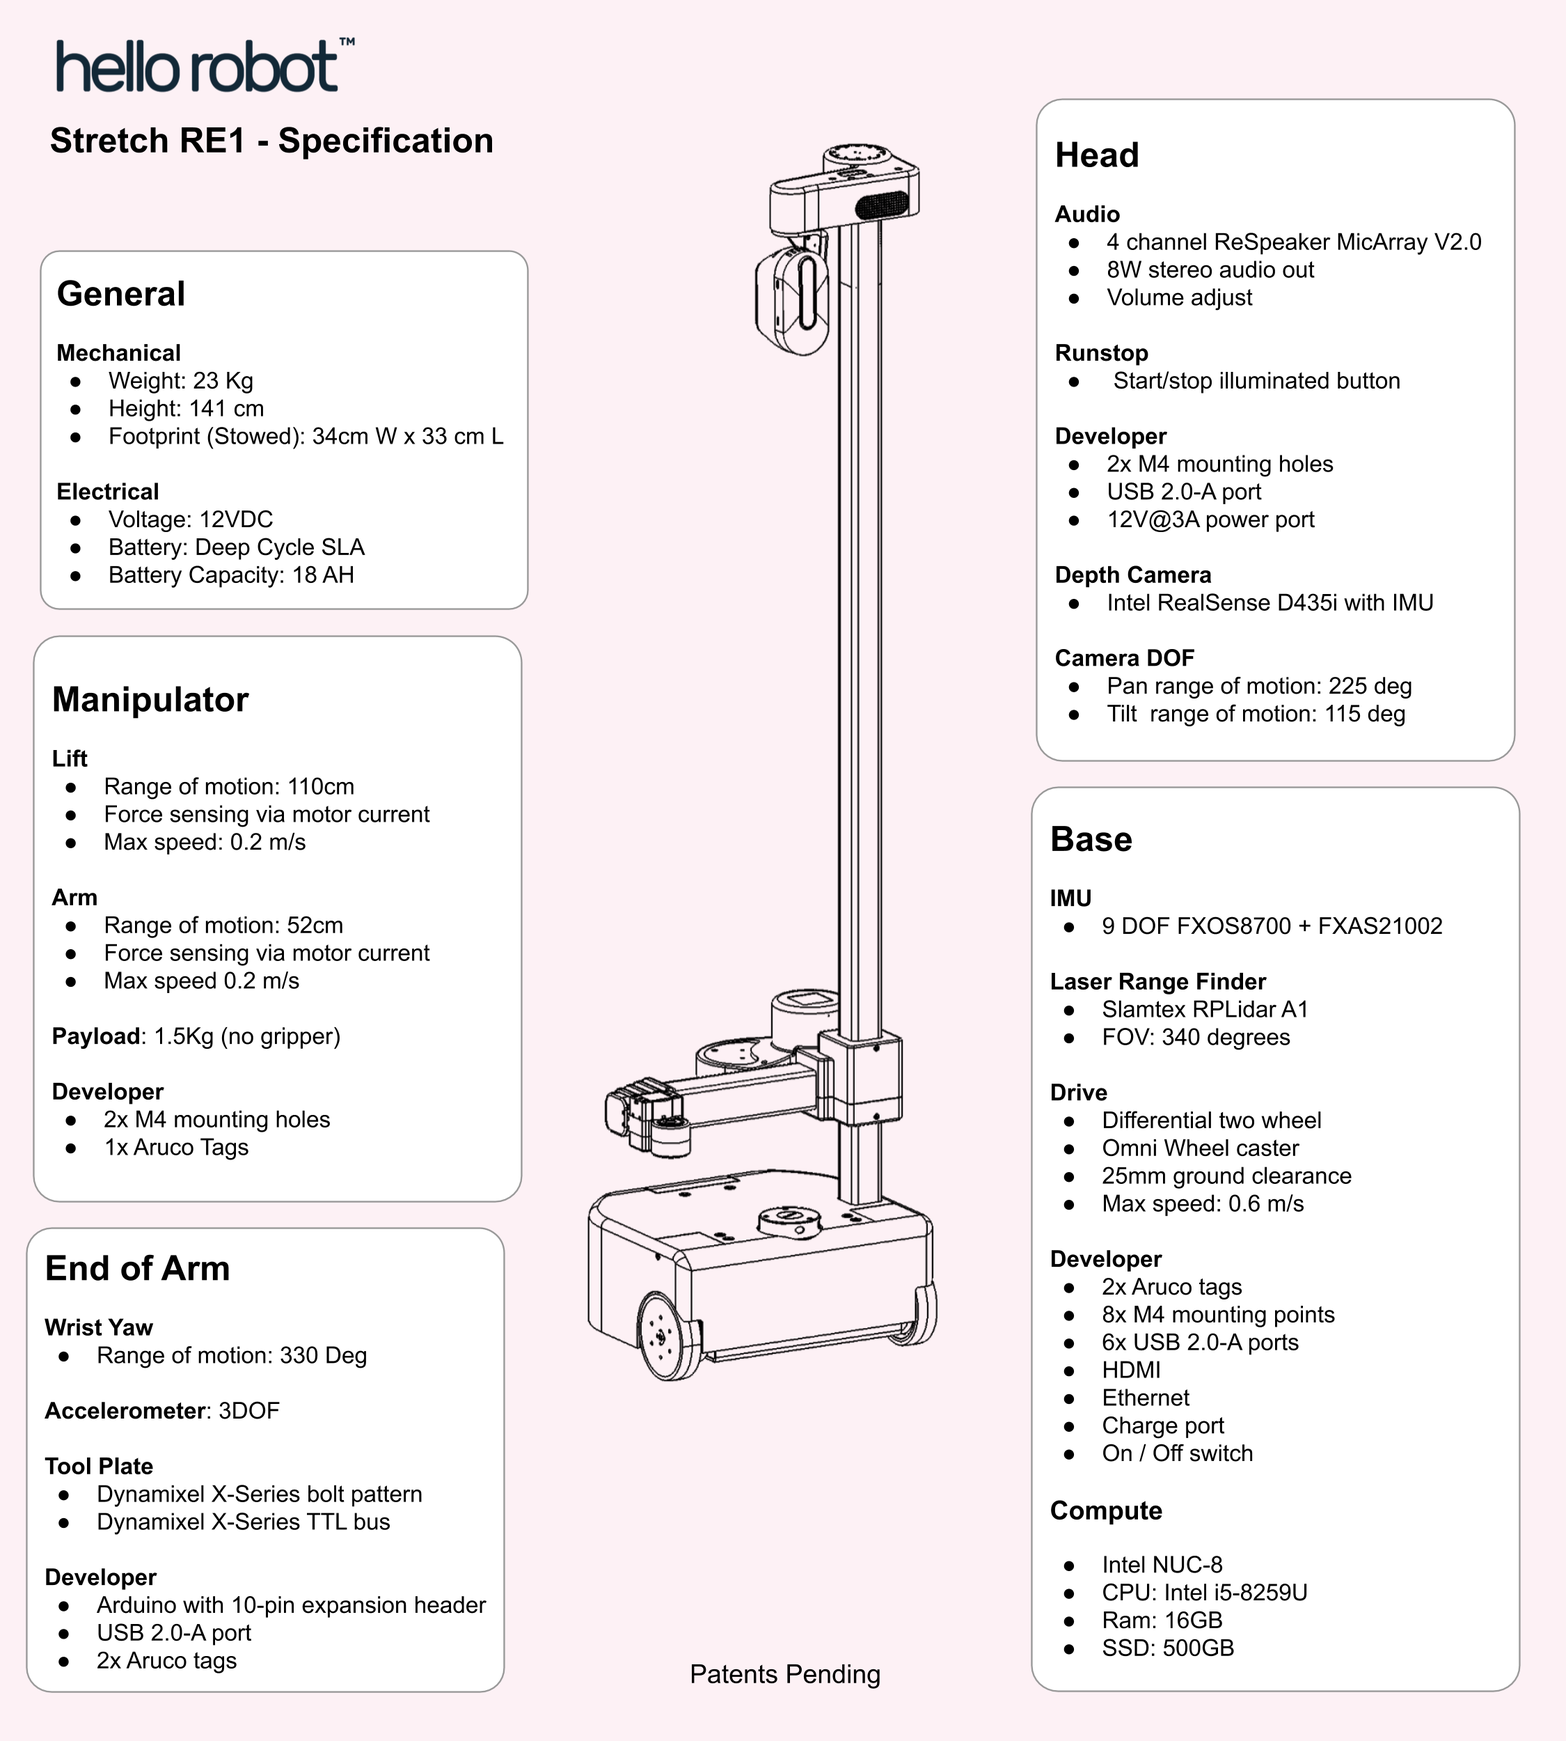
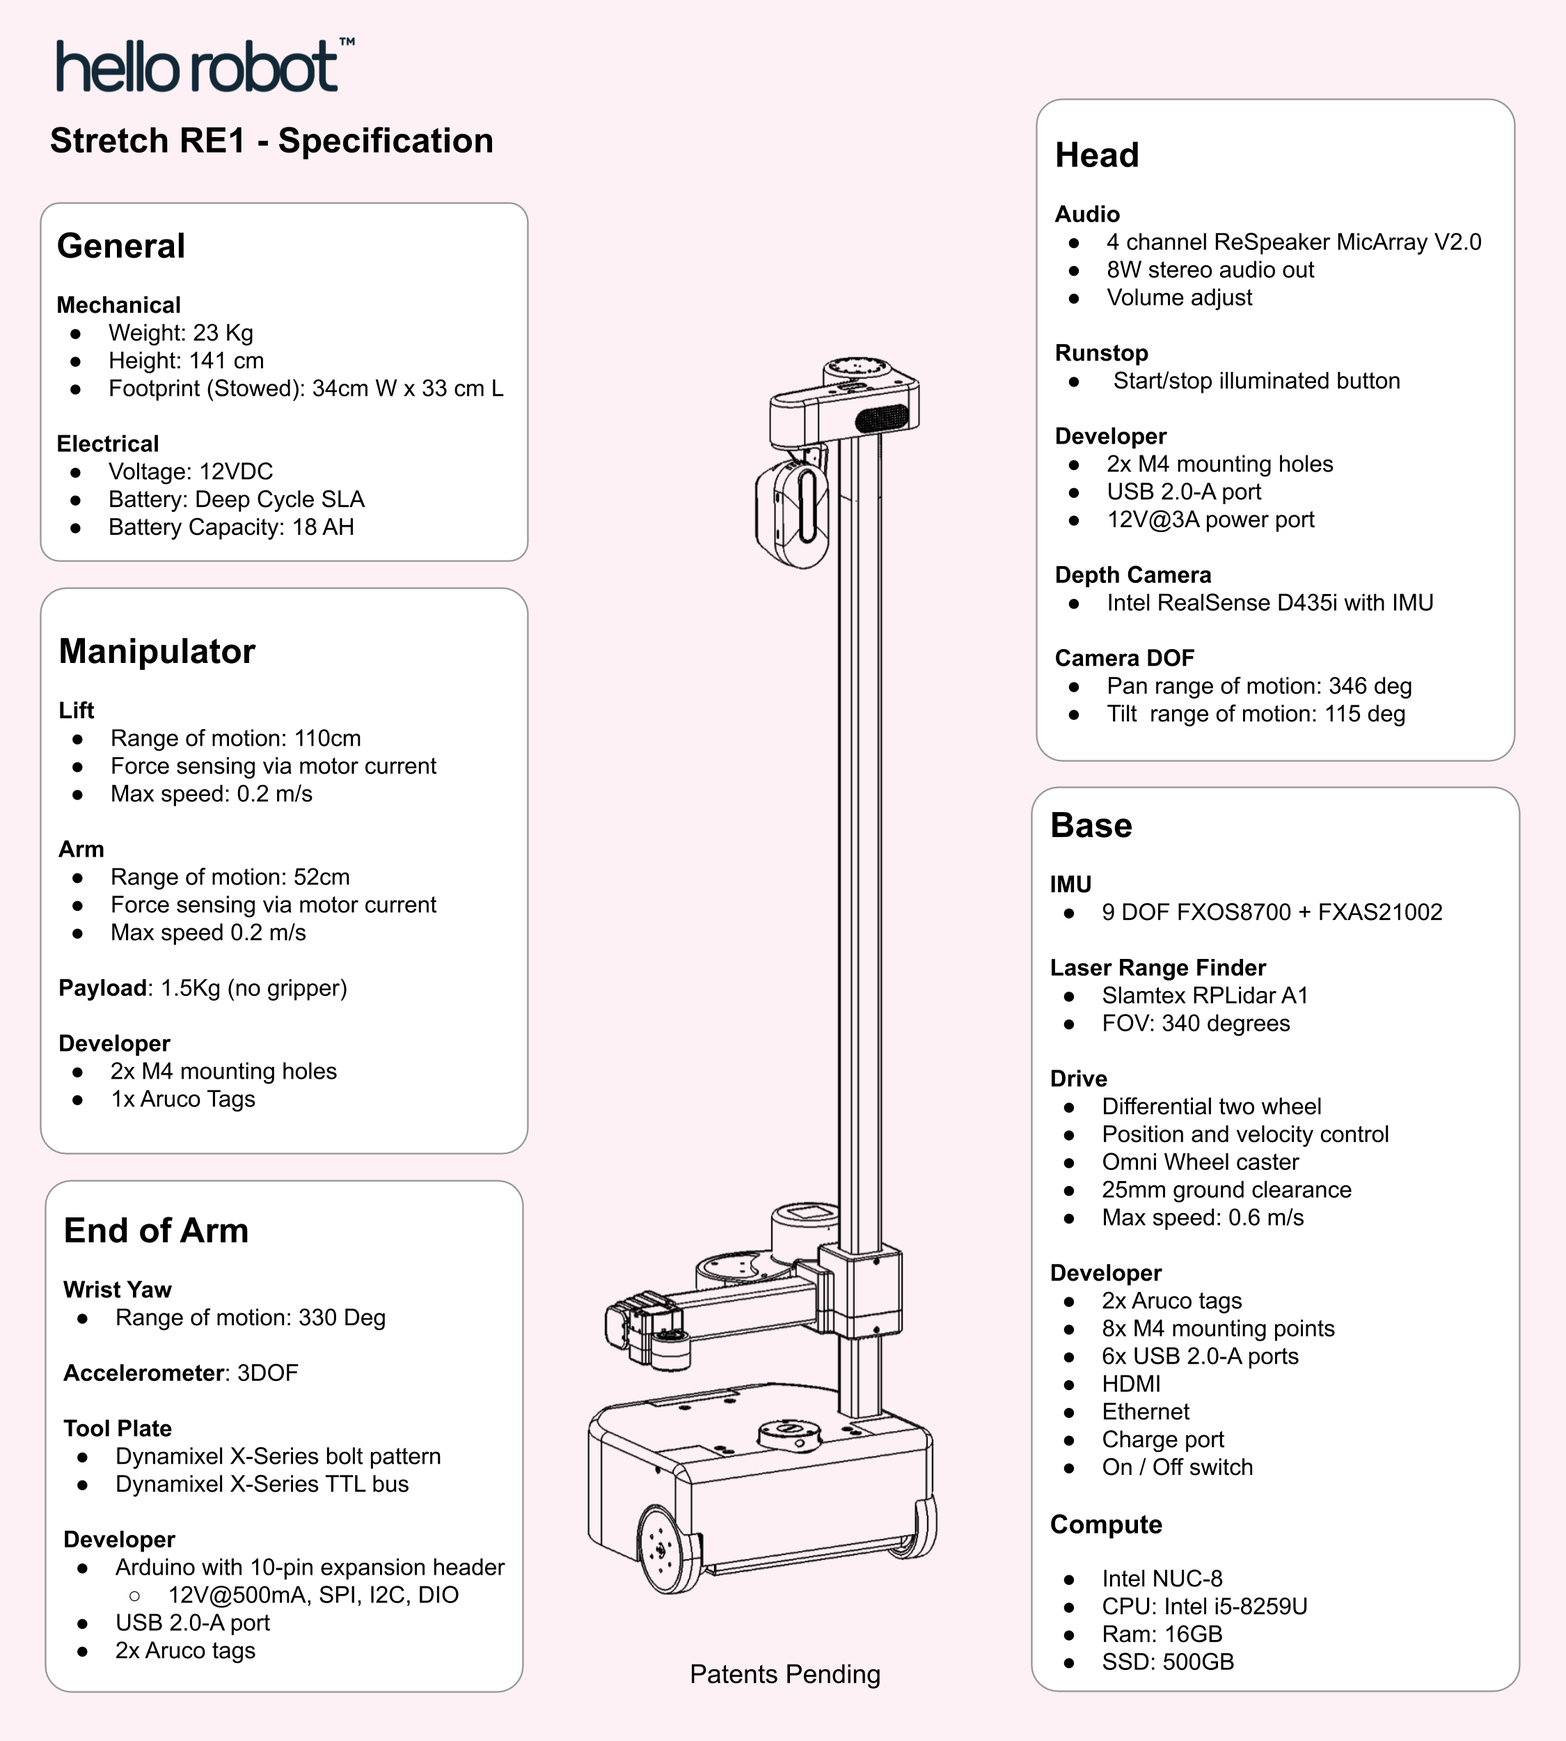
Deployed e3dd85c with MkDocs version: 1.1.2

diff --git a/troubleshooting_guide/index.html b/troubleshooting_guide/index.html
@@ -11,7 +11,7 @@
         <meta name="description" content="Hello Robot User Documentation">
       
       
-        <link rel="canonical" href="https://docs.hello-robot.com/batch_errata/">
+        <link rel="canonical" href="https://docs.hello-robot.com/troubleshooting_guide/">
       
       
       <link rel="shortcut icon" href="../images/hello_robot_favicon.png">
@@ -19,7 +19,7 @@
     
     
       
-        <title>Batch errata - Hello Robot  Documentation</title>
+        <title>Stretch RE1: Troubleshooting Guide - Hello Robot  Documentation</title>
       
     
     
@@ -63,7 +63,7 @@
     <div data-md-component="skip">
       
         
-        <a href="#batch-errata" class="md-skip">
+        <a href="#stretch-re1-troubleshooting-guide" class="md-skip">
           Skip to content
         </a>
       
@@ -90,7 +90,7 @@
           </span>
           <span class="md-header-nav__topic md-ellipsis">
             
-              Batch errata
+              Stretch RE1: Troubleshooting Guide
             
           </span>
         </div>
@@ -231,8 +231,56 @@
     <ul class="md-nav__list" data-md-scrollfix>
       
         <li class="md-nav__item">
-  <a href="#guthrie" class="md-nav__link">
-    Guthrie
+  <a href="#xbox-teleoperation-is-not-working" class="md-nav__link">
+    XBox teleoperation is not working
+  </a>
+  
+</li>
+      
+        <li class="md-nav__item">
+  <a href="#battery-is-not-staying-charged" class="md-nav__link">
+    Battery is not staying charged
+  </a>
+  
+    <nav class="md-nav" aria-label="Battery is not staying charged">
+      <ul class="md-nav__list">
+        
+          <li class="md-nav__item">
+  <a href="#changing-modes" class="md-nav__link">
+    Changing Modes
+  </a>
+  
+</li>
+        
+          <li class="md-nav__item">
+  <a href="#normal-operation" class="md-nav__link">
+    Normal Operation
+  </a>
+  
+</li>
+        
+          <li class="md-nav__item">
+  <a href="#recovering-drained-batteries" class="md-nav__link">
+    Recovering Drained Batteries
+  </a>
+  
+</li>
+        
+          <li class="md-nav__item">
+  <a href="#repairing-damaged-batteries" class="md-nav__link">
+    Repairing Damaged Batteries
+  </a>
+  
+</li>
+        
+      </ul>
+    </nav>
+  
+</li>
+      
+        <li class="md-nav__item">
+  <a href="#stretch-doesnt-respond-to-commands" class="md-nav__link">
+    Stretch doesn't respond to commands
   </a>
   
 </li>
@@ -253,25 +301,106 @@
                   
                 
                 
-                <p><img alt="" src="../images/hello_robot_large_rs.png" /></p>
-<h1 id="batch-errata">Batch Errata</h1>
-<p>The Stretch RE1 is manufactured fixed size batches. There may be minor changes, issues, and improvements between batches. These errata are captured here.</p>
-<p>Each batch is named alphabetically after a musician. 'Guthrie' is the first publicly available version of Stretch.</p>
-<h2 id="guthrie">Guthrie</h2>
-<p>Released May 2020</p>
-<p>Known issues</p>
+                <h1 id="stretch-re1-troubleshooting-guide">Stretch RE1: Troubleshooting Guide</h1>
+<p>This guide covers common issues and ways to resolve them. Please check the <a href="forum.hello-robot.com">Hello Robot Forum</a> for additional topics not covered here.</p>
+<h2 id="xbox-teleoperation-is-not-working">XBox teleoperation is not working</h2>
+<p>The provided Easy SMX wireless controller can accidentally be placed in the wrong mode. The mode is indicated by the round illuminated ring (shown as Connect below). The top 2 LEDs only should be illuminated. If a different LED pattern is shown then the button mapping expected by <a href="https://github.com/hello-robot/stretch_body/blob/master/tools/bin/stretch_xbox_controller_teleop.py0">stretch_xbox_controller_teleop.py</a> will be incorrect.</p>
+<p>To set the controller into the correct mode:</p>
 <ul>
-<li>The sound localization of Guthrie can be inconsistent due to the acoustic properties of the enclosure around the ReSpeaker microphone array. The voice recognition accuracy is not affected. Workaround: remove the head shell for experiments requiring accurate localization. Contact support@hello-robot.com for instructions.</li>
-<li>A version incompatibility between the ROS D435i packages and the Intel RealSense packages can cause Realsense Viewer to stop finding the camera on the bus. This happens after the first time the ROS package utilizes the camera. Prior to running ROS, the viewer will work as expected.</li>
-<li>The provided EasySMX XBox controller can be set into an incorrect interface mode (when holding down the illuminated center button for a few seconds.) The correct mode is with the upper half of ring LEDs illuminated top two LED quarter circle arcs).  To change it back to the correct mode, hold the center button down for 5s and release.  Repeat until top half of ring is illuminated.</li>
+<li>Hold the center button down for 5s. It will switch modes. Release.</li>
+<li>Repeat until top half of ring (upper two lights) are illuminated.</li>
 </ul>
-<p>Changes from prior version</p>
+<p>In addition, check that the provided USB dongle is plugged into the robot USB port in its trunk.</p>
+<p>. </p>
+<p><img alt="" src="../images/xbox.png" /></p>
+<h2 id="battery-is-not-staying-charged">Battery is not staying charged</h2>
+<p>When fully charged, Stretch should have a battery life of about 2 hours while running a heavy CPU load. The battery may not stay charged if:</p>
 <ul>
-<li>N/A</li>
-<li></li>
+<li>The battery gets drained to a level beyond which the charger can recover from</li>
+<li>The battery charger is set to the wrong charge mode</li>
 </ul>
-<hr />
-<p>.<div align="center"> All materials are Copyright 2020 by Hello Robot Inc. The Stretch RE1 robot has patents pending</div></p>
+<p>Stretch utilizes <a href="https://www.power-sonic.com/product/ps-1290/">12V AGM SLA batteries</a>. It currently ships with a NOCO Genius 10 charger. Earlier 'Guthrie' versions of Stretch use the NOCO G7200. These two chargers are functionally very similar.</p>
+<p>Please review the battery charger user manuals prior to following the guidance below:</p>
+<ul>
+<li><a href="https://no.co/media/nocodownloads/format/g/e/genius10na_user_guide_1.pdf">Genius10</a></li>
+<li><a href="https://no.co/media/nocodownloads/format/g/7/g7200_manual_english_1.pdf">G7200</a></li>
+</ul>
+<p>The charger supports a number of charging modes. The relevant ones for Stretch are:</p>
+<table>
+<thead>
+<tr>
+<th>Mode</th>
+<th>Function</th>
+<th></th>
+</tr>
+</thead>
+<tbody>
+<tr>
+<td>12V AGM</td>
+<td>Normal charging mode for Stretch. Default mode as shipped with robot.</td>
+<td></td>
+</tr>
+<tr>
+<td>12V REPAIR</td>
+<td>Repairs damaged and deep discharged batteries.</td>
+<td></td>
+</tr>
+<tr>
+<td>12V SUPPLY</td>
+<td>Acts as a 12V power supply, allowing the robot to recover from deep discharge and to also be powered without discharging the batteries.</td>
+<td></td>
+</tr>
+</tbody>
+</table>
+<h3 id="changing-modes">Changing Modes</h3>
+<p>Pressing the charger Mode button will toggle it through its modes. The 'advanced' charging modes are only accessible by first holding down the Mode button for 3-5 seconds.</p>
+<p>The charger will remember its charge mode when unpowered. </p>
+<p><strong>Note: When changing charger modes, first disconnect the charger from the robot.</strong></p>
+<h3 id="normal-operation">Normal Operation</h3>
+<p>During normal use the charger should be in 12V AGM Mode. As shown below, the 12V AGM indicator will be illuminated. When the battery is fully charged, the green 100% indicator will be on.</p>
+<p>The charger is in 12V AGM mode when shipped with Stretch. If your battery is not charging, first check that it wasn't accidentally placed in another mode.</p>
+<p><img alt="" src="../images/noco10_agm_rs.png" /></p>
+<p><img alt="" src="../images/g7200_agm.png" /></p>
+<h3 id="recovering-drained-batteries">Recovering Drained Batteries</h3>
+<p>If Stretch is left powered up without the charger attached it is possible to fully discharge the batteries. In this case, the 12V AGM mode may not be able to recover the charge. In this case:</p>
+<ul>
+<li>Attach the charger</li>
+<li>Press and hold the Mode button for 3 seconds, allowing the charger to access the Advanced modes</li>
+<li>Push the Mode button a few times until it is in 12V Supply mode</li>
+<li>Allow robot to charge for at least 1 hour</li>
+<li>Place the charger back in 12V AGM mode and allow batteries to charger to 100%</li>
+<li>Boot the robot up with the charger unattached. </li>
+<li>Check the battery voltage by running <code>stretch_robot_battery_check.py</code>. The reported voltage should be &gt;=12V </li>
+</ul>
+<h3 id="repairing-damaged-batteries">Repairing Damaged Batteries</h3>
+<p>It is possible for Stretch's batteries to become damaged due to repeated deep discharge. If the robot has continued issues maintaining a charge we recommend attempting the following procedure: </p>
+<ol>
+<li>Power off the robot and plug in the charger</li>
+<li>Press and hold the Mode button for 3 seconds, allowing the charger to access the Advanced modes</li>
+<li>Push the Mode button a few times until it is in 12V REPAIR mode</li>
+<li>Allow robot to charge for at least 4 hours</li>
+<li>Place the charger back in 12V AGM mode and allow batteries to charger to 100%</li>
+<li>Boot the robot up with the charger unattached. </li>
+<li>Check the battery voltage by running <code>stretch_robot_battery_check.py</code>. The reported voltage should be &gt;=12V </li>
+</ol>
+<h2 id="stretch-doesnt-respond-to-commands">Stretch doesn't respond to commands</h2>
+<p>If more than one <a href="https://github.com/hello-robot/stretch_body/blob/master/body/stretch_body/robot.py">Robot</a> i instance is instantiated at a time, Stretch Body will report communication errors and will not always execute motion commands as expected. This is because  <a href="https://github.com/hello-robot/stretch_body/blob/master/body/stretch_body/robot.py">Robot</a>  manages communications with the robot hardware and it doesn't support multiple writes to the USB devices.</p>
+<p>These errors can appear as</p>
+<pre><code>Transport RX Error on RPC_ACK_SEND_BLOCK_MORE False 0 102
+---- Debug Exception
+--------------- New RPC -------------------------
+Framer sent RPC_START_NEW_RPC
+...
+</code></pre>
+
+<p>or as</p>
+<pre><code>IOError(None): None
+...
+</code></pre>
+
+<p>As shipped, Stretch launches  <a href="https://github.com/hello-robot/stretch_body/blob/master/tools/bin/stretch_xbox_controller_teleop.py0">stretch_xbox_controller_teleop.py</a> upon boot. It is necessary to turn off this automatic launch feature, otherwise your own Robot instance will conflict with this script.</p>
+<p>To turn it off, search for 'Startup' from Ubuntu Activities. Uncheck the box for 'hello_robot_xbox_teleop' </p>
+<p><img alt="" src="../images/xbox_off_rs.png" /></p>
                 
               
               

diff --git a/quick_start_guide/index.html b/quick_start_guide/index.html
@@ -194,7 +194,7 @@
 
 
   <li class="md-nav__item">
-    <a href="https://www.youtube.com/channel/UCzoafc2G5uW5QuyTZ22OWRA" title="Stretch Videos" class="md-nav__link">
+    <a href="https://youtube.com/c/HelloRobot" title="Stretch Videos" class="md-nav__link">
       Stretch Videos
     </a>
   </li>
@@ -326,6 +326,13 @@
   
 </li>
       
+        <li class="md-nav__item">
+  <a href="#further-exploration" class="md-nav__link">
+    Further Exploration
+  </a>
+  
+</li>
+      
     </ul>
   
 </nav>
@@ -352,8 +359,9 @@
 <p>A few items you'll want to know about before getting started.</p>
 <h3 id="power">Power</h3>
 <p>The entire robot powers up and down with the On/Off switch. When powering down, we recommend selecting 'Power Off' from the Ubuntu Desktop prior to hitting the Off switch</p>
-<p>The provided battery charger can be plugged and unplugged at any time during operation. We recommend keeping the charger plugged in whenever it isn't running untethered.</p>
 <p><img alt="" src="../images/trunk_rs.png" /></p>
+<p>The provided battery charger can be plugged and unplugged at any time during operation. We recommend keeping the charger plugged in whenever it isn't running untethered. The charger should be '12V AGM' mode while charging:</p>
+<p><img alt="" src="../images/noco10_agm_rs2.png" /></p>
 <h3 id="runstop">Runstop</h3>
 <p>The illuminated button on the head is its Runstop. Just tap it, you'll hear a beep and it will start flashing. This will pause motion of the primary robot joints during operation. This can be useful if the robot makes an unsafe motion, or if you just want to free up the robot motors while you roll it around.</p>
 <p>To allow motion once again, hold the button down for two seconds. After the beep, motion can resume.</p>
@@ -410,7 +418,6 @@
 <li>Remove the 'trunk' cover and power on the robot if its not already on.</li>
 <li>Plug in a mouse, keyboard and HDMI monitor to the robot trunk</li>
 <li>Plug in the battery charger</li>
-<li><strong>Note</strong>: You may need to set the charger mode to 12V AGM using the charger 'Mode' button</li>
 </ul>
 <p>Log in to the robot computer. The default user credentials came in the box with the robot. </p>
 <h2 id="start-coding">Start Coding</h2>
@@ -486,7 +493,9 @@ robot.stop()
 <h2 id="join-the-community-forum">Join the Community Forum</h2>
 <p>Join the <a href="https://forum.hello-robot.com">Hello Robot Community</a>. We'd welcome hearing your feedback as you get to know your robot. </p>
 <p>Hello Robot support monitors the forum closely and will quickly get back to you on any questions or issues you post.</p>
-<p>That's it. Happy coding!.</p>
+<h2 id="further-exploration">Further Exploration</h2>
+<p>Encounter any issues while getting started? Please let us know at support@hello-robot.com. Also take a minute to review the <a href="../troubleshooting_guide/">Stretch Troubleshooting Guide</a></p>
+<p>We recommend next exploring the ROS based demos that ship with Stretch.  These <a href="https://github.com/hello-robot/stretch_ros/tree/master/stretch_demos">are found in the stretch_ros repository</a>.</p>
                 
               
               

diff --git a/index.html b/index.html
@@ -203,7 +203,7 @@
 
 
   <li class="md-nav__item">
-    <a href="https://www.youtube.com/channel/UCzoafc2G5uW5QuyTZ22OWRA" title="Stretch Videos" class="md-nav__link">
+    <a href="https://youtube.com/c/HelloRobot" title="Stretch Videos" class="md-nav__link">
       Stretch Videos
     </a>
   </li>
@@ -286,6 +286,10 @@
 <tr>
 <td><a href="quick_start_guide/">Stretch Quick Start Guide</a></td>
 <td>Getting started  - Xbox Teleoperation Demo and beyond</td>
+</tr>
+<tr>
+<td><a href="troubleshooting_guide/">Stretch Troubleshooting Guide</a></td>
+<td>Solutions to common issues</td>
 </tr>
 <tr>
 <td><a href="untethered_operation/">Stretch Untethered Operation</a></td>
@@ -375,9 +379,7 @@
 </tr>
 </tbody>
 </table>
-<h2 id="release-notes">Release Notes</h2>
-<p><a href="batch_errata/">Batch Errata</a></p>
-<h2 id="license">License</h2>
+<h1 id="license">License</h1>
 <p>This documentation is only to be used for an authentic Stretch RE1 robot produced and sold by Hello Robot Inc. </p>
 <p>All Hello Robot stretch_docs related materials are released under the <a href="https://creativecommons.org/licenses/by-nd/4.0">Creative Commons Attribution-NoDerivatives 4.0 International (CC BY-ND 4.0)</a> license.</p>
 <p>The Stretch RE1 has patents pending.</p>

diff --git a/hardware_user_guide/index.html b/hardware_user_guide/index.html
@@ -194,7 +194,7 @@
 
 
   <li class="md-nav__item">
-    <a href="https://www.youtube.com/channel/UCzoafc2G5uW5QuyTZ22OWRA" title="Stretch Videos" class="md-nav__link">
+    <a href="https://youtube.com/c/HelloRobot" title="Stretch Videos" class="md-nav__link">
       Stretch Videos
     </a>
   </li>
@@ -690,9 +690,9 @@ Pin 2: GND</td>
   </tr>
   <tr>
     <td>Pan</td>
-    <td>225</td>
-    <td>-100 </td>
-    <td>125</td>
+    <td>346</td>
+    <td>-234 </td>
+    <td>112</td>
   </tr>
   <tr>
     <td>Tilt</td>

diff --git a/404.html b/404.html
@@ -187,7 +187,7 @@
 
 
   <li class="md-nav__item">
-    <a href="https://www.youtube.com/channel/UCzoafc2G5uW5QuyTZ22OWRA" title="Stretch Videos" class="md-nav__link">
+    <a href="https://youtube.com/c/HelloRobot" title="Stretch Videos" class="md-nav__link">
       Stretch Videos
     </a>
   </li>

diff --git a/LICENSE/index.html b/LICENSE/index.html
@@ -189,7 +189,7 @@
 
 
   <li class="md-nav__item">
-    <a href="https://www.youtube.com/channel/UCzoafc2G5uW5QuyTZ22OWRA" title="Stretch Videos" class="md-nav__link">
+    <a href="https://youtube.com/c/HelloRobot" title="Stretch Videos" class="md-nav__link">
       Stretch Videos
     </a>
   </li>

diff --git a/robot_safety_guide/index.html b/robot_safety_guide/index.html
@@ -194,7 +194,7 @@
 
 
   <li class="md-nav__item">
-    <a href="https://www.youtube.com/channel/UCzoafc2G5uW5QuyTZ22OWRA" title="Stretch Videos" class="md-nav__link">
+    <a href="https://youtube.com/c/HelloRobot" title="Stretch Videos" class="md-nav__link">
       Stretch Videos
     </a>
   </li>

diff --git a/stretch_body_guide/index.html b/stretch_body_guide/index.html
@@ -194,7 +194,7 @@
 
 
   <li class="md-nav__item">
-    <a href="https://www.youtube.com/channel/UCzoafc2G5uW5QuyTZ22OWRA" title="Stretch Videos" class="md-nav__link">
+    <a href="https://youtube.com/c/HelloRobot" title="Stretch Videos" class="md-nav__link">
       Stretch Videos
     </a>
   </li>

diff --git a/untethered_operation/index.html b/untethered_operation/index.html
@@ -194,7 +194,7 @@
 
 
   <li class="md-nav__item">
-    <a href="https://www.youtube.com/channel/UCzoafc2G5uW5QuyTZ22OWRA" title="Stretch Videos" class="md-nav__link">
+    <a href="https://youtube.com/c/HelloRobot" title="Stretch Videos" class="md-nav__link">
       Stretch Videos
     </a>
   </li>
